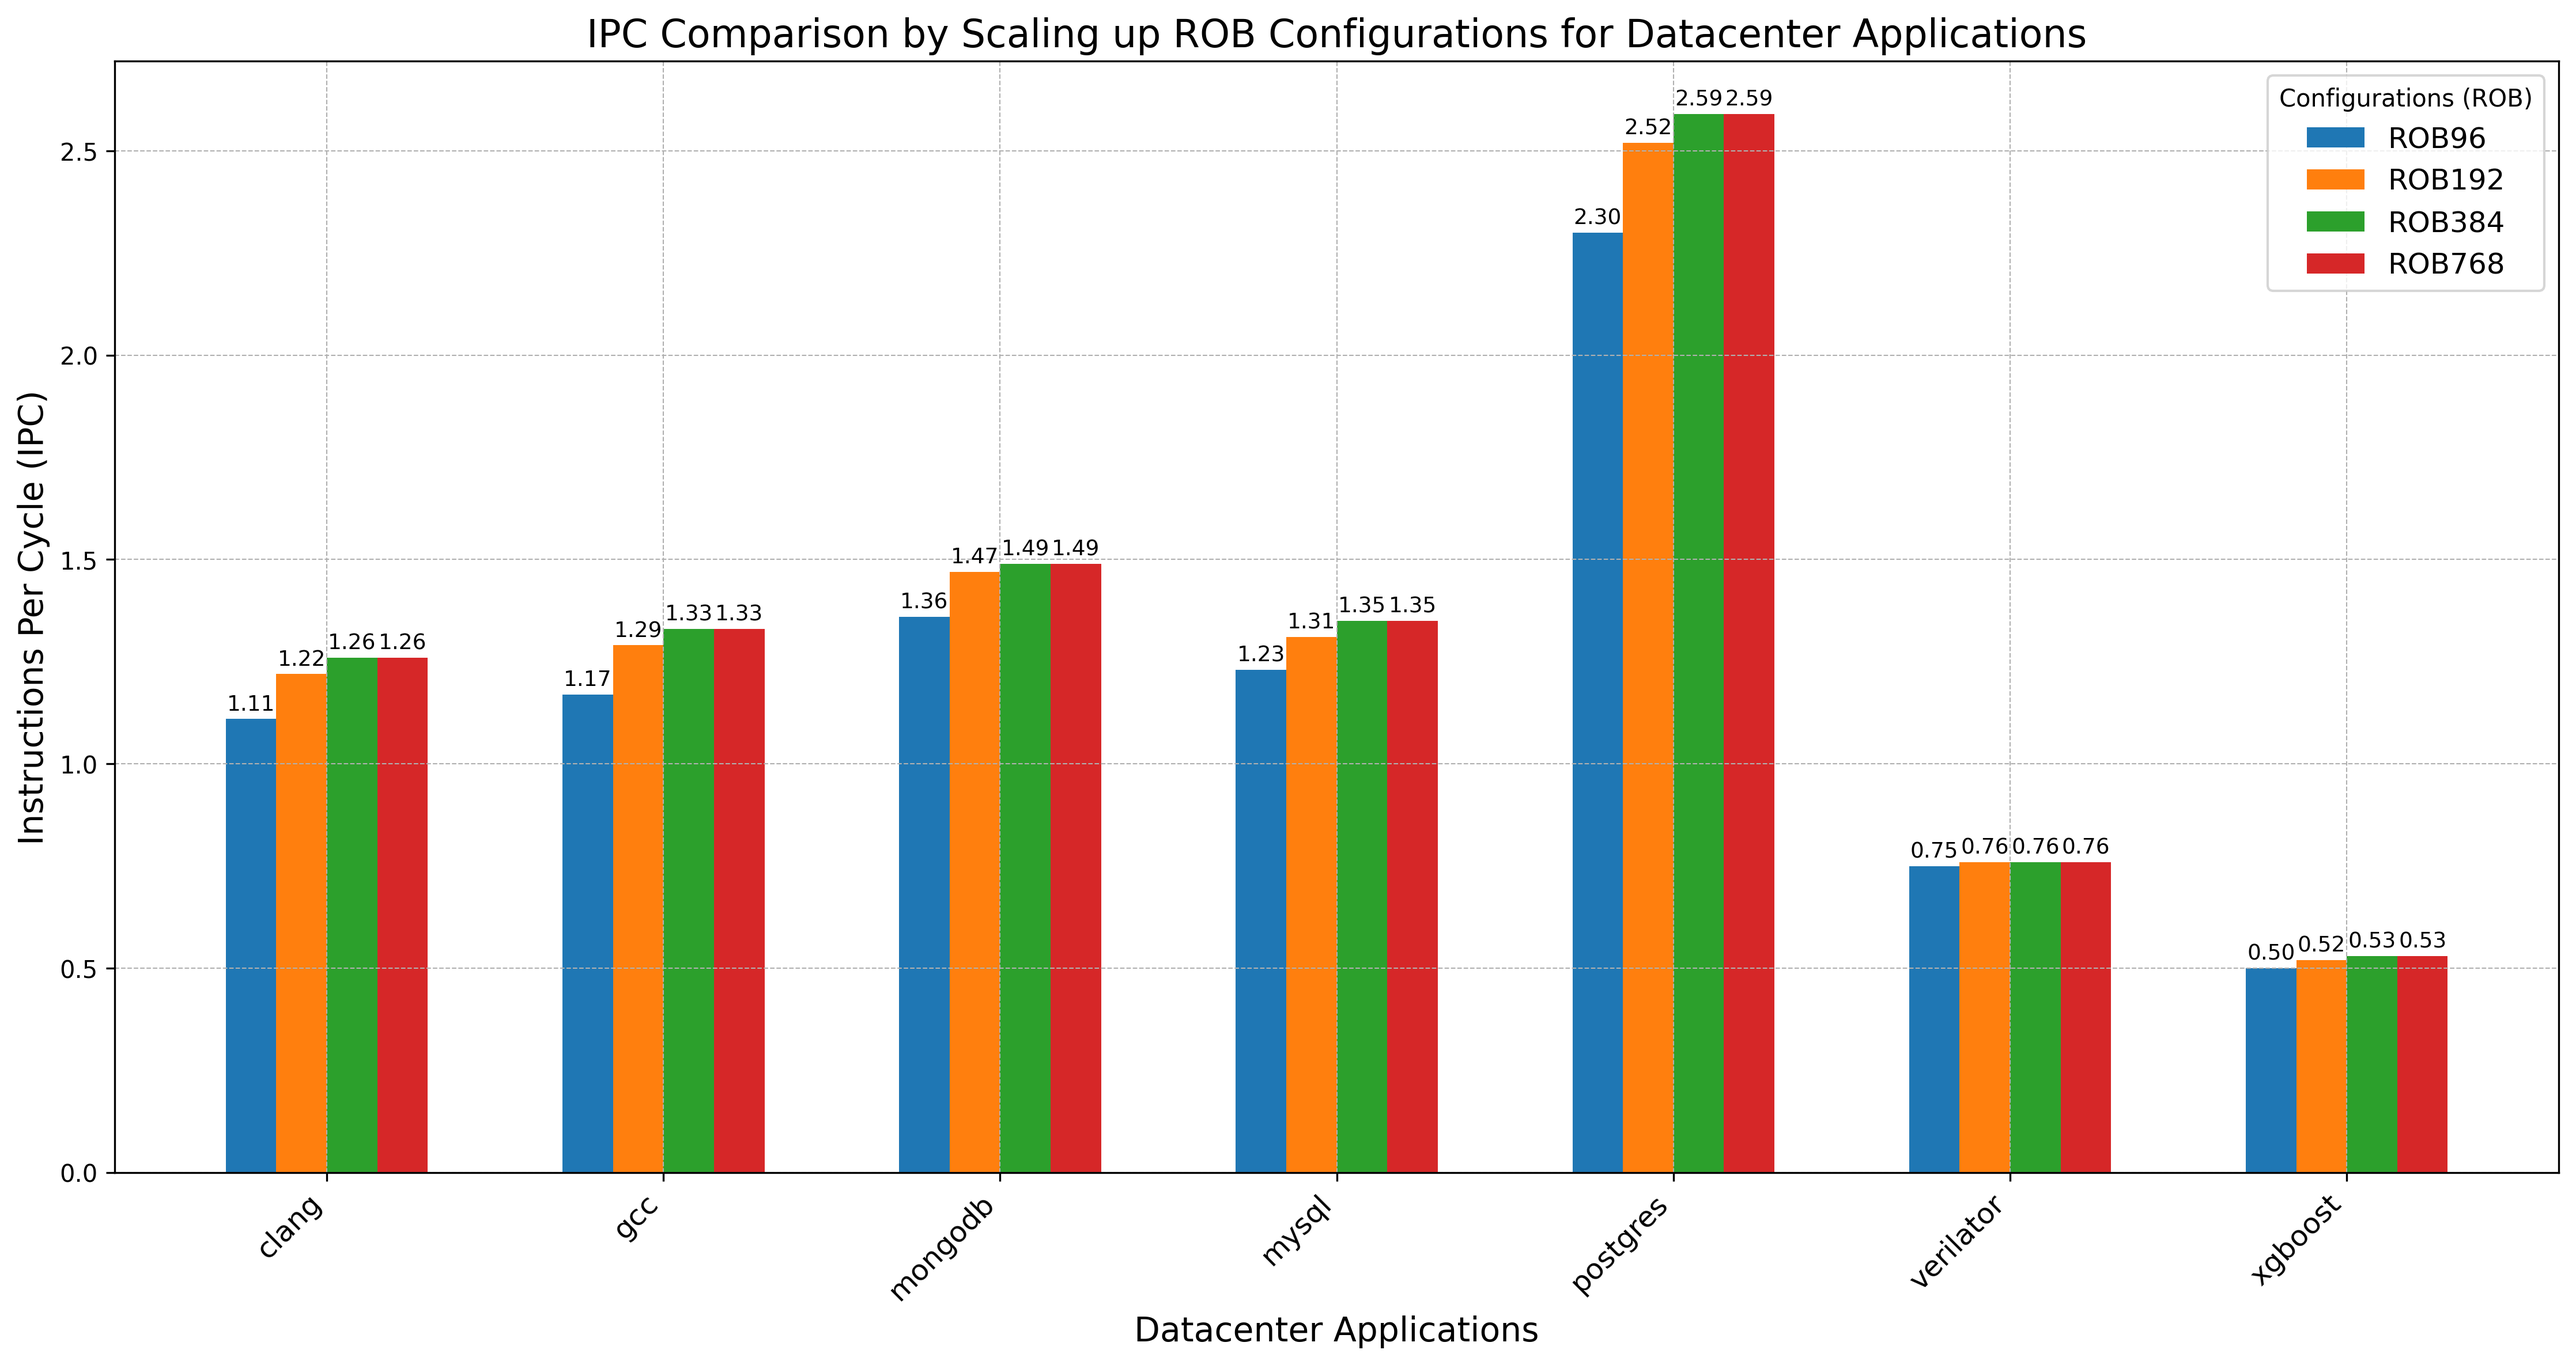
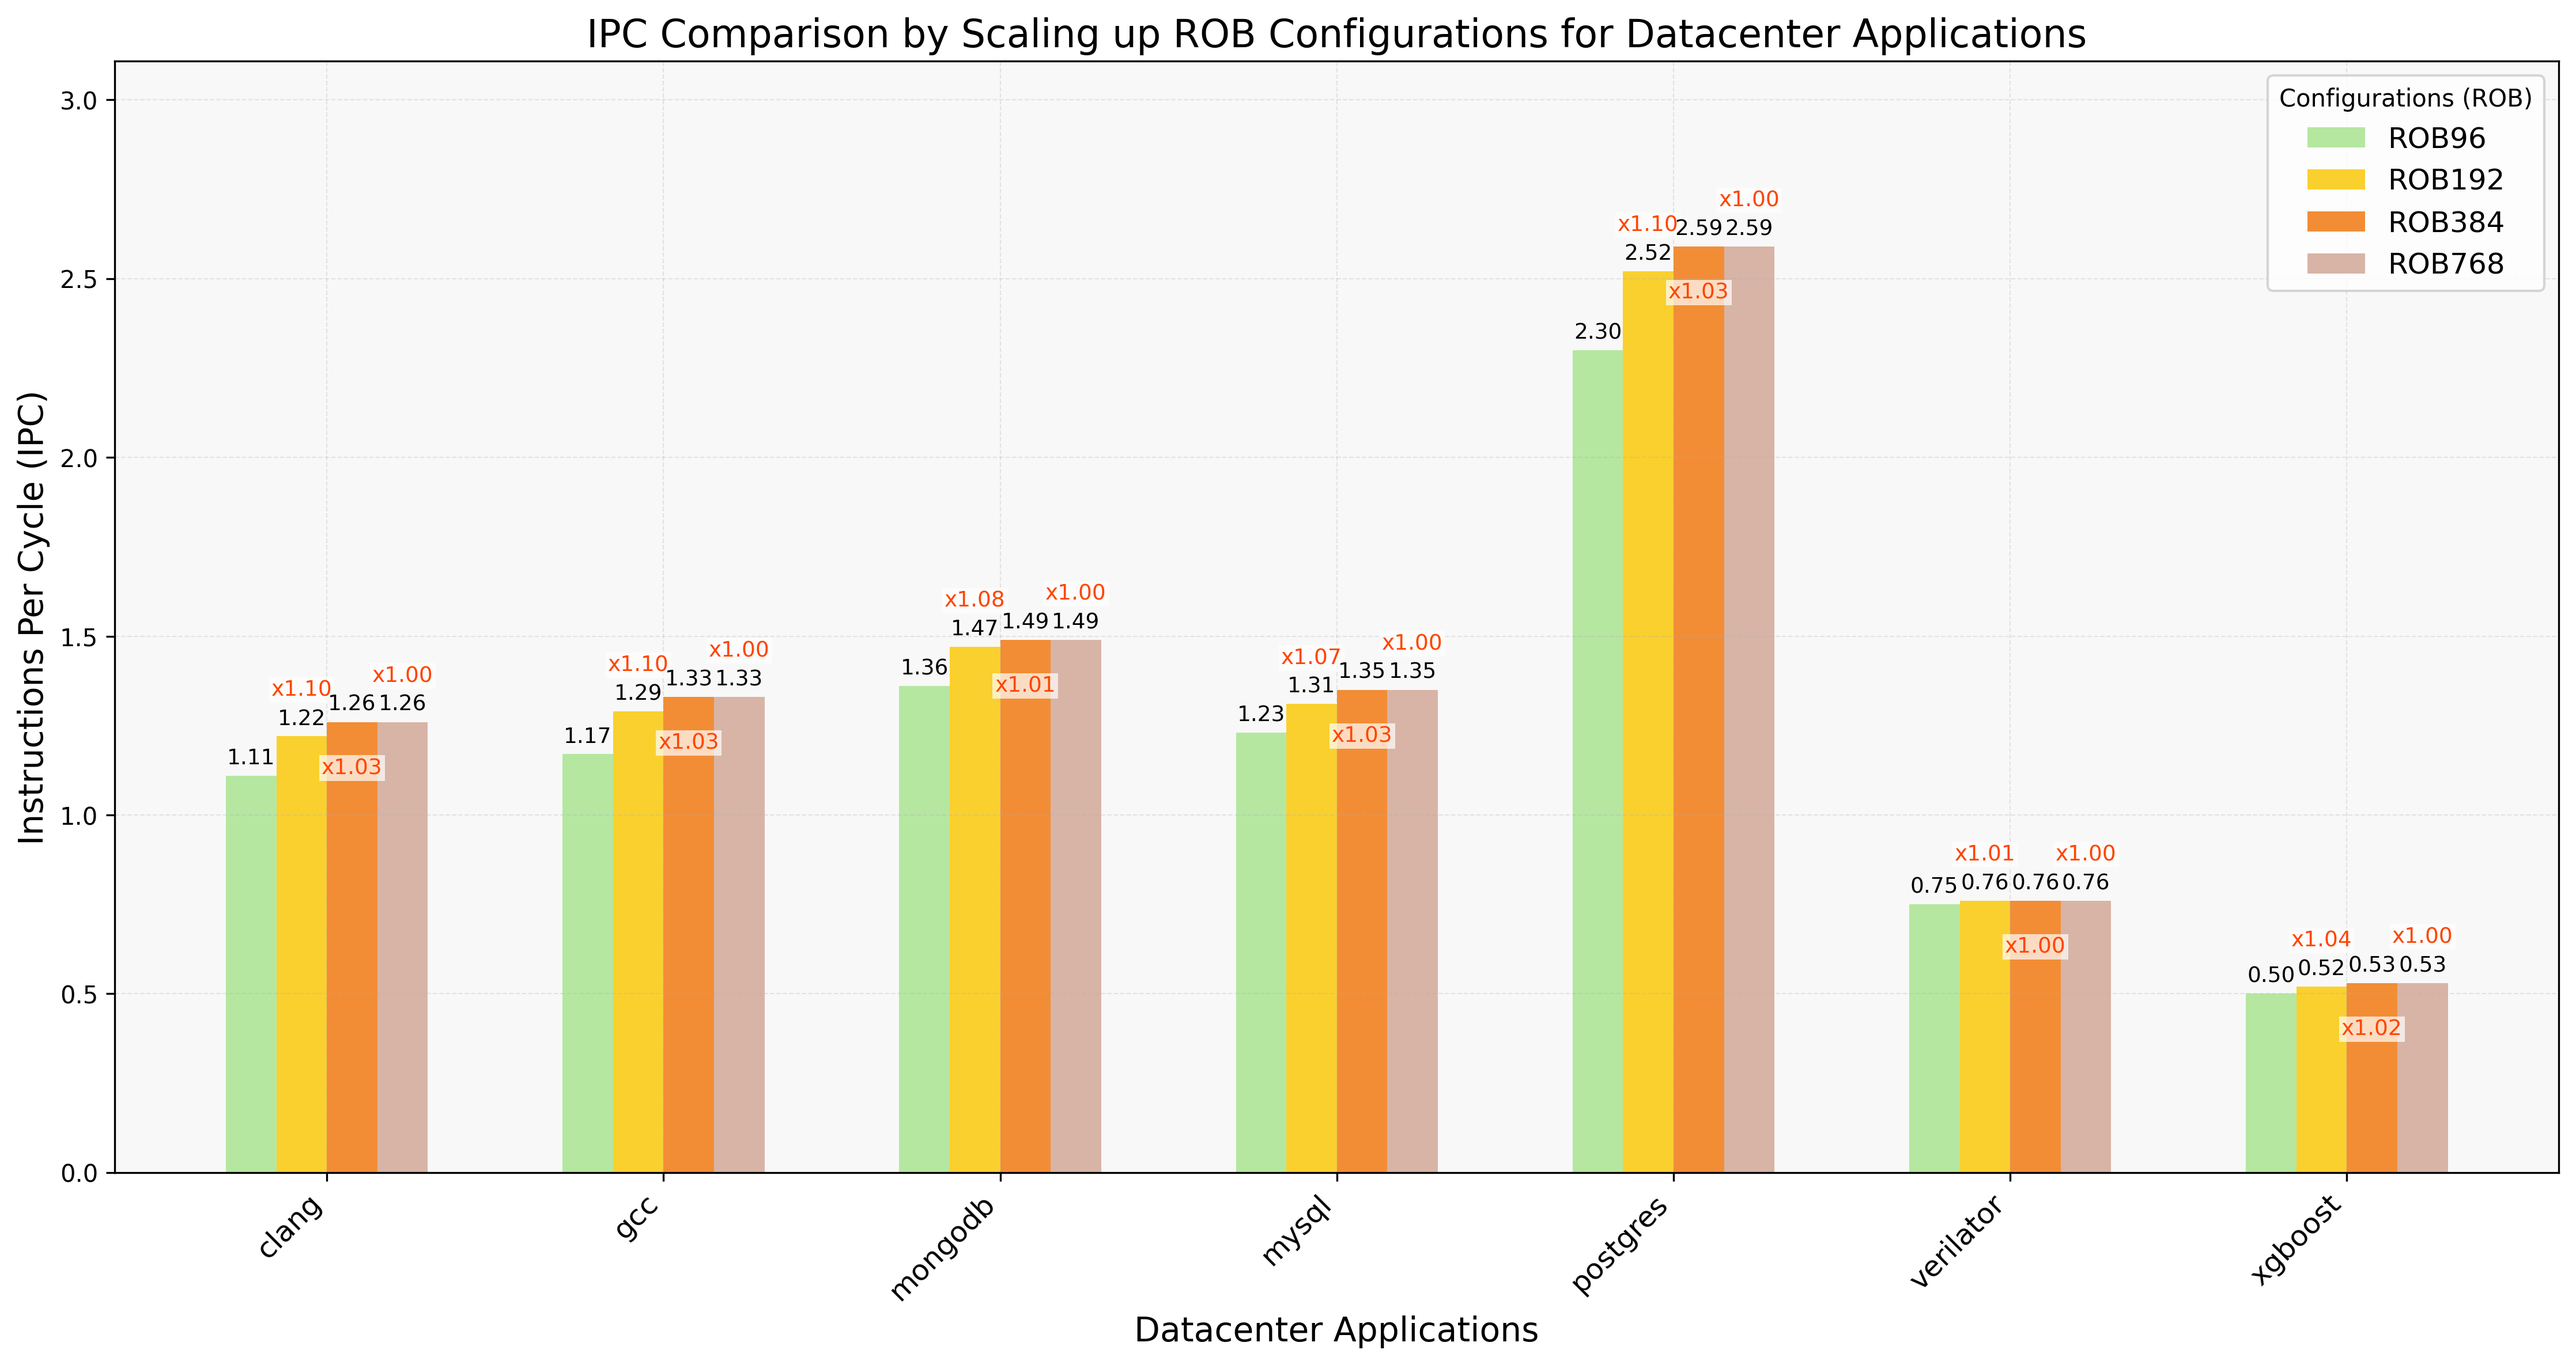
+ minor changes

diff --git a/src/plot_rob_ipc.py b/src/plot_rob_ipc.py
@@ -1,0 +1,132 @@
+import matplotlib.pyplot as plt
+import numpy as np
+import re
+
+# Read and process data
+input_file = "agg_results.txt"
+data = {}
+
+try:
+    with open(input_file, "r") as f:
+        lines = f.readlines()
+except FileNotFoundError:
+    print(f"Error: The file {input_file} does not exist.")
+    exit(1)
+
+# Process the file to extract data
+workload_configs = {}
+all_ipcs = []  # To calculate overall average
+
+for line in lines[1:]:  # Skip header
+    parts = line.strip().split()
+    if len(parts) != 5:
+        print(f"Skipping invalid line: {line.strip()}")
+        continue
+    
+    workload, rob, total_insts, total_cycles, ipc = parts
+    ipc = float(ipc)
+    all_ipcs.append(ipc)  # Add to list for overall average
+    
+    match = re.search(r"ROB(\d+)", rob)
+    if not match:
+        print(f"Skipping invalid ROB format: {rob}")
+        continue
+    
+    rob_value = int(match.group(1))  # Extract and convert ROB value
+    
+    config_key = f'ROB{rob_value}'
+    
+    if workload not in workload_configs:
+        workload_configs[workload] = {}
+    
+    workload_configs[workload][config_key] = ipc
+
+# Get unique configurations across all workloads and sort them
+all_configs = sorted(list(set(sum([list(w.keys()) for w in workload_configs.values()], []))), 
+                     key=lambda x: tuple(map(int, re.findall(r'\d+', x))))
+workloads = sorted(list(workload_configs.keys()))
+
+# Create figure for grouped bar chart
+plt.figure(figsize=(15, 8))
+ax = plt.gca()
+
+# Define bar width and positions
+bar_width = 0.15
+indices = np.arange(len(workloads))
+
+# Define pastel colors for the bars (using lighter shades)
+colors = ['#B5E7A0',  # Light Green
+         '#FAD02E',   # Pastel Yellow
+         '#F28D35',   # Pastel Orange
+         '#D8B4A6',   # Light Pastel Pink
+         '#A7C7E7',   # Pastel Blue
+         '#B1E1DC']   # Light Turquoise
+
+# Store maximum IPC value to set y-axis limit
+max_ipc = 0
+
+# Plot data for each configuration
+for i, config in enumerate(all_configs):
+    ipcs = [workload_configs[workload].get(config, 0) for workload in workloads]
+    bar_positions = indices + i * bar_width
+    ax.bar(bar_positions, ipcs, bar_width, label=config, color=colors[i % len(colors)])  # Recycle colors if more configs than colors
+    
+    # Add IPC value above each bar
+    for j, ipc in enumerate(ipcs):
+        ax.text(bar_positions[j], ipc + 0.02, f'{ipc:.2f}', 
+                ha='center', va='bottom', fontsize=9)
+        max_ipc = max(max_ipc, ipc)
+    
+    # Add IPC increase factor between consecutive bars within each workload
+    if i > 0:
+        prev_ipcs = [workload_configs[workload].get(all_configs[i - 1], 0) for workload in workloads]
+        for j, (prev_ipc, ipc) in enumerate(zip(prev_ipcs, ipcs)):
+            if prev_ipc > 0:
+                ipc_ratio = ipc / prev_ipc
+                # Alternate vertical position for each configuration within a workload
+                vertical_offset = 0.1 if i % 2 == 1 else -0.1
+                y_pos = ipc + vertical_offset
+                
+                ax.text(bar_positions[j], y_pos, f'x{ipc_ratio:.2f}', 
+                        ha='center', 
+                        va='bottom' if i % 2 == 1 else 'top',
+                        fontsize=9, 
+                        color='#FF4500',  # Bright orange-red for contrast
+                        bbox=dict(facecolor='white', 
+                                edgecolor='none', 
+                                alpha=0.7,
+                                pad=1))
+
+# Set labels and title
+ax.set_xlabel('Datacenter Applications', fontsize=14)
+ax.set_ylabel('Instructions Per Cycle (IPC)', fontsize=14)
+ax.set_title('IPC Comparison by Scaling up ROB Configurations for Datacenter Applications', fontsize=16)
+
+# Set y-axis limit with some padding
+ax.set_ylim(0, max_ipc * 1.2)
+
+# Set x-axis ticks and labels
+ax.set_xticks(indices + bar_width * (len(all_configs) - 1) / 2)
+ax.set_xticklabels(workloads, rotation=45, ha='right', fontsize=12)
+
+# Add legend
+ax.legend(title="Configurations (ROB)", fontsize=12)
+
+# Add grid for better readability
+ax.grid(True, which='both', linestyle='--', linewidth=0.5, alpha=0.3)  # Made grid lighter
+
+# Set background color to very light gray
+ax.set_facecolor('#f8f8f8')
+
+# Adjust layout to prevent label cutoff
+plt.tight_layout()
+
+# Save and show the plot
+plt.savefig('ipc_comparison_rob.png', dpi=300, bbox_inches='tight')
+plt.show()
+
+print("IPC comparison plot saved as ipc_comparison_rob.png")
+
+# Calculate and print overall average IPC
+overall_avg_ipc = sum(all_ipcs) / len(all_ipcs)
+print(f"Overall average IPC: {overall_avg_ipc:.2f}")
